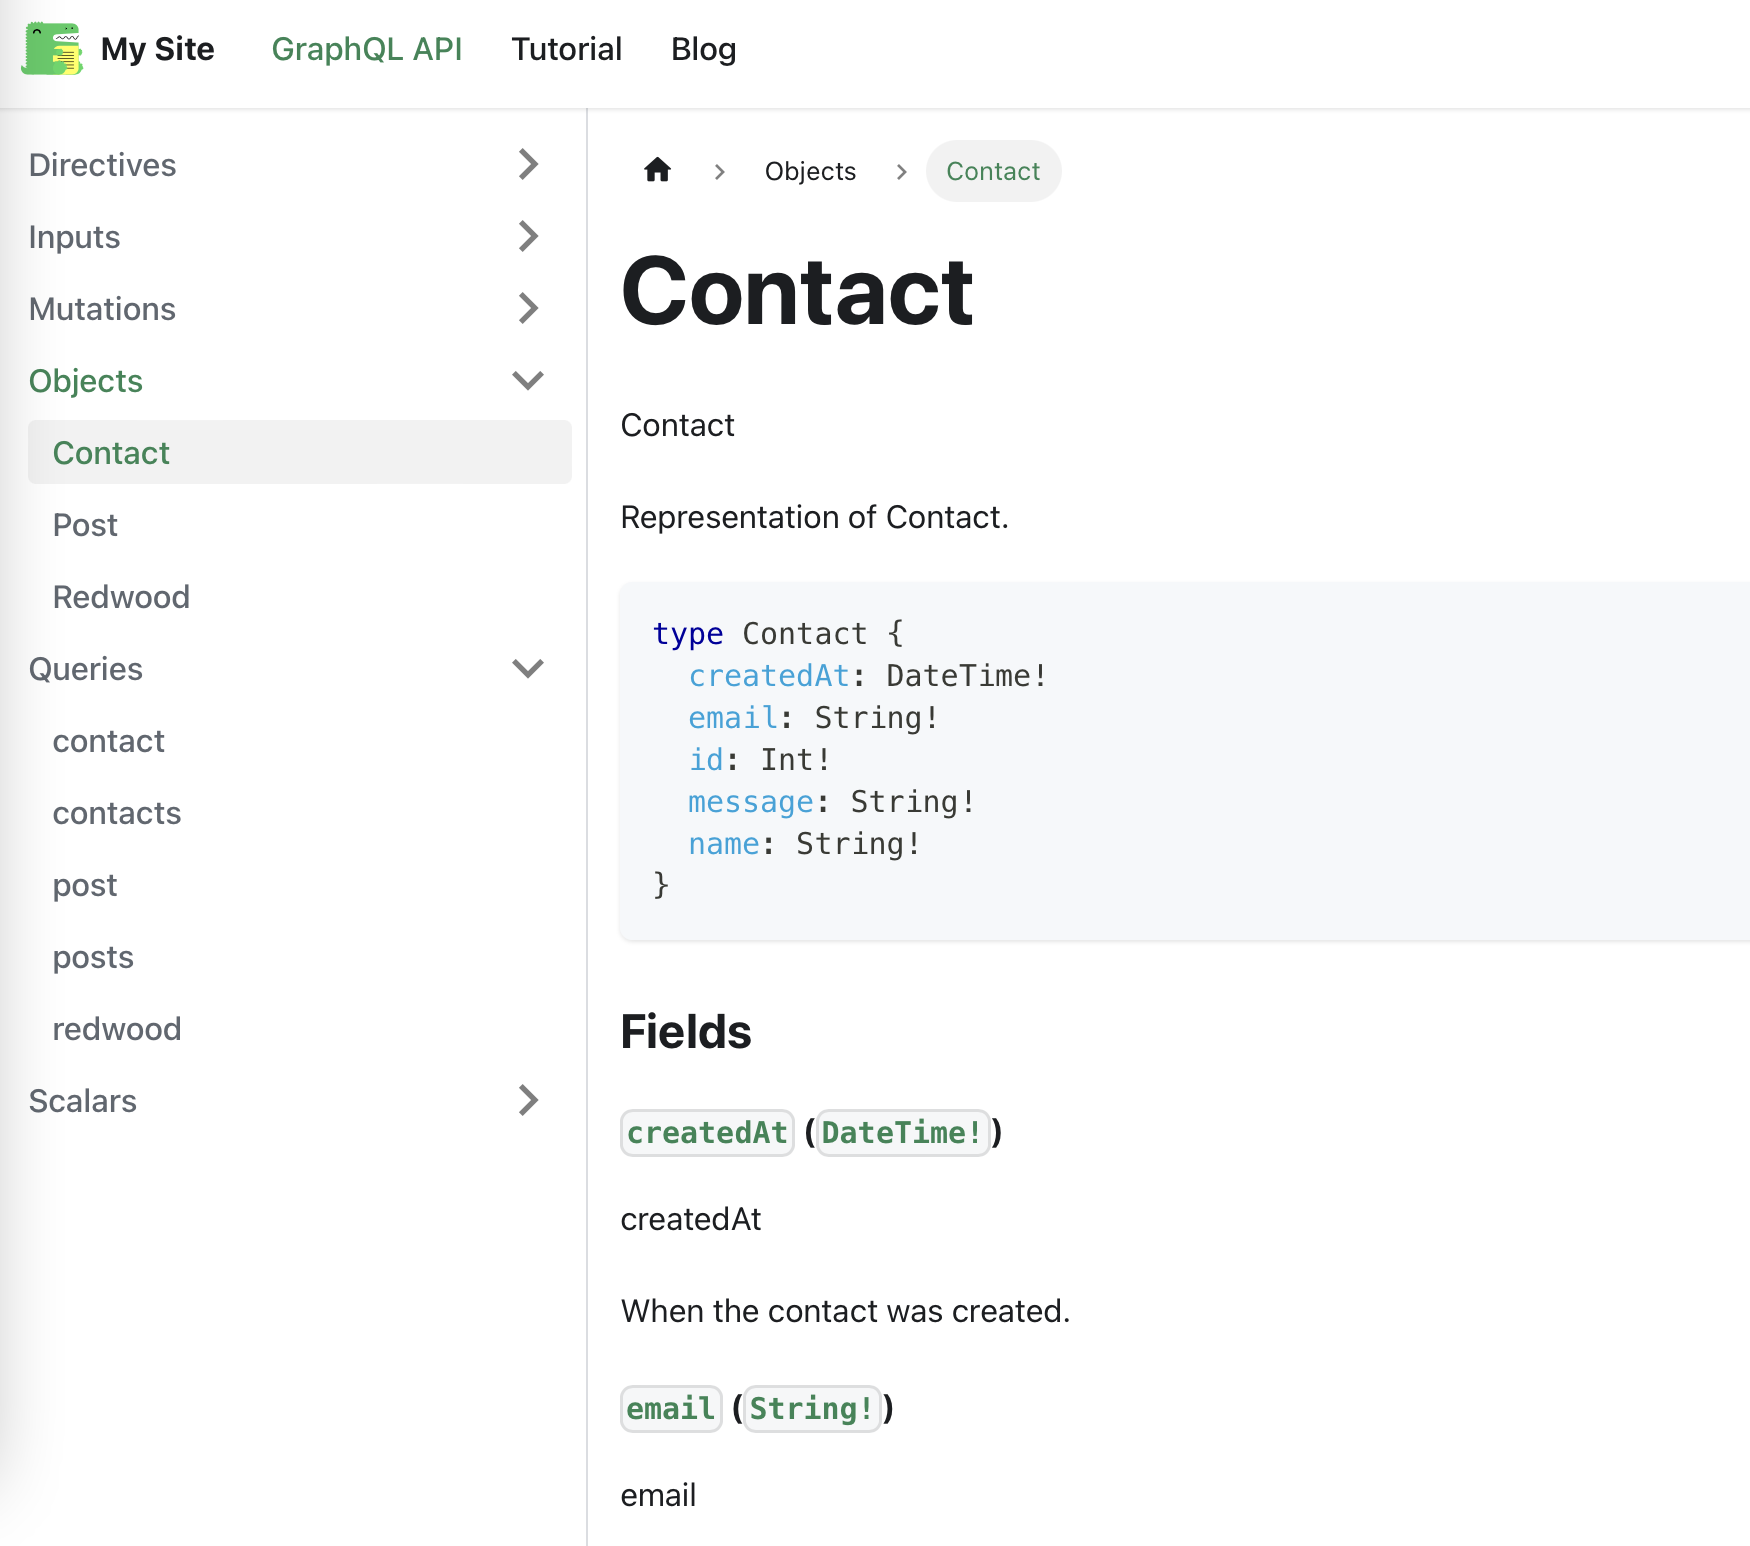
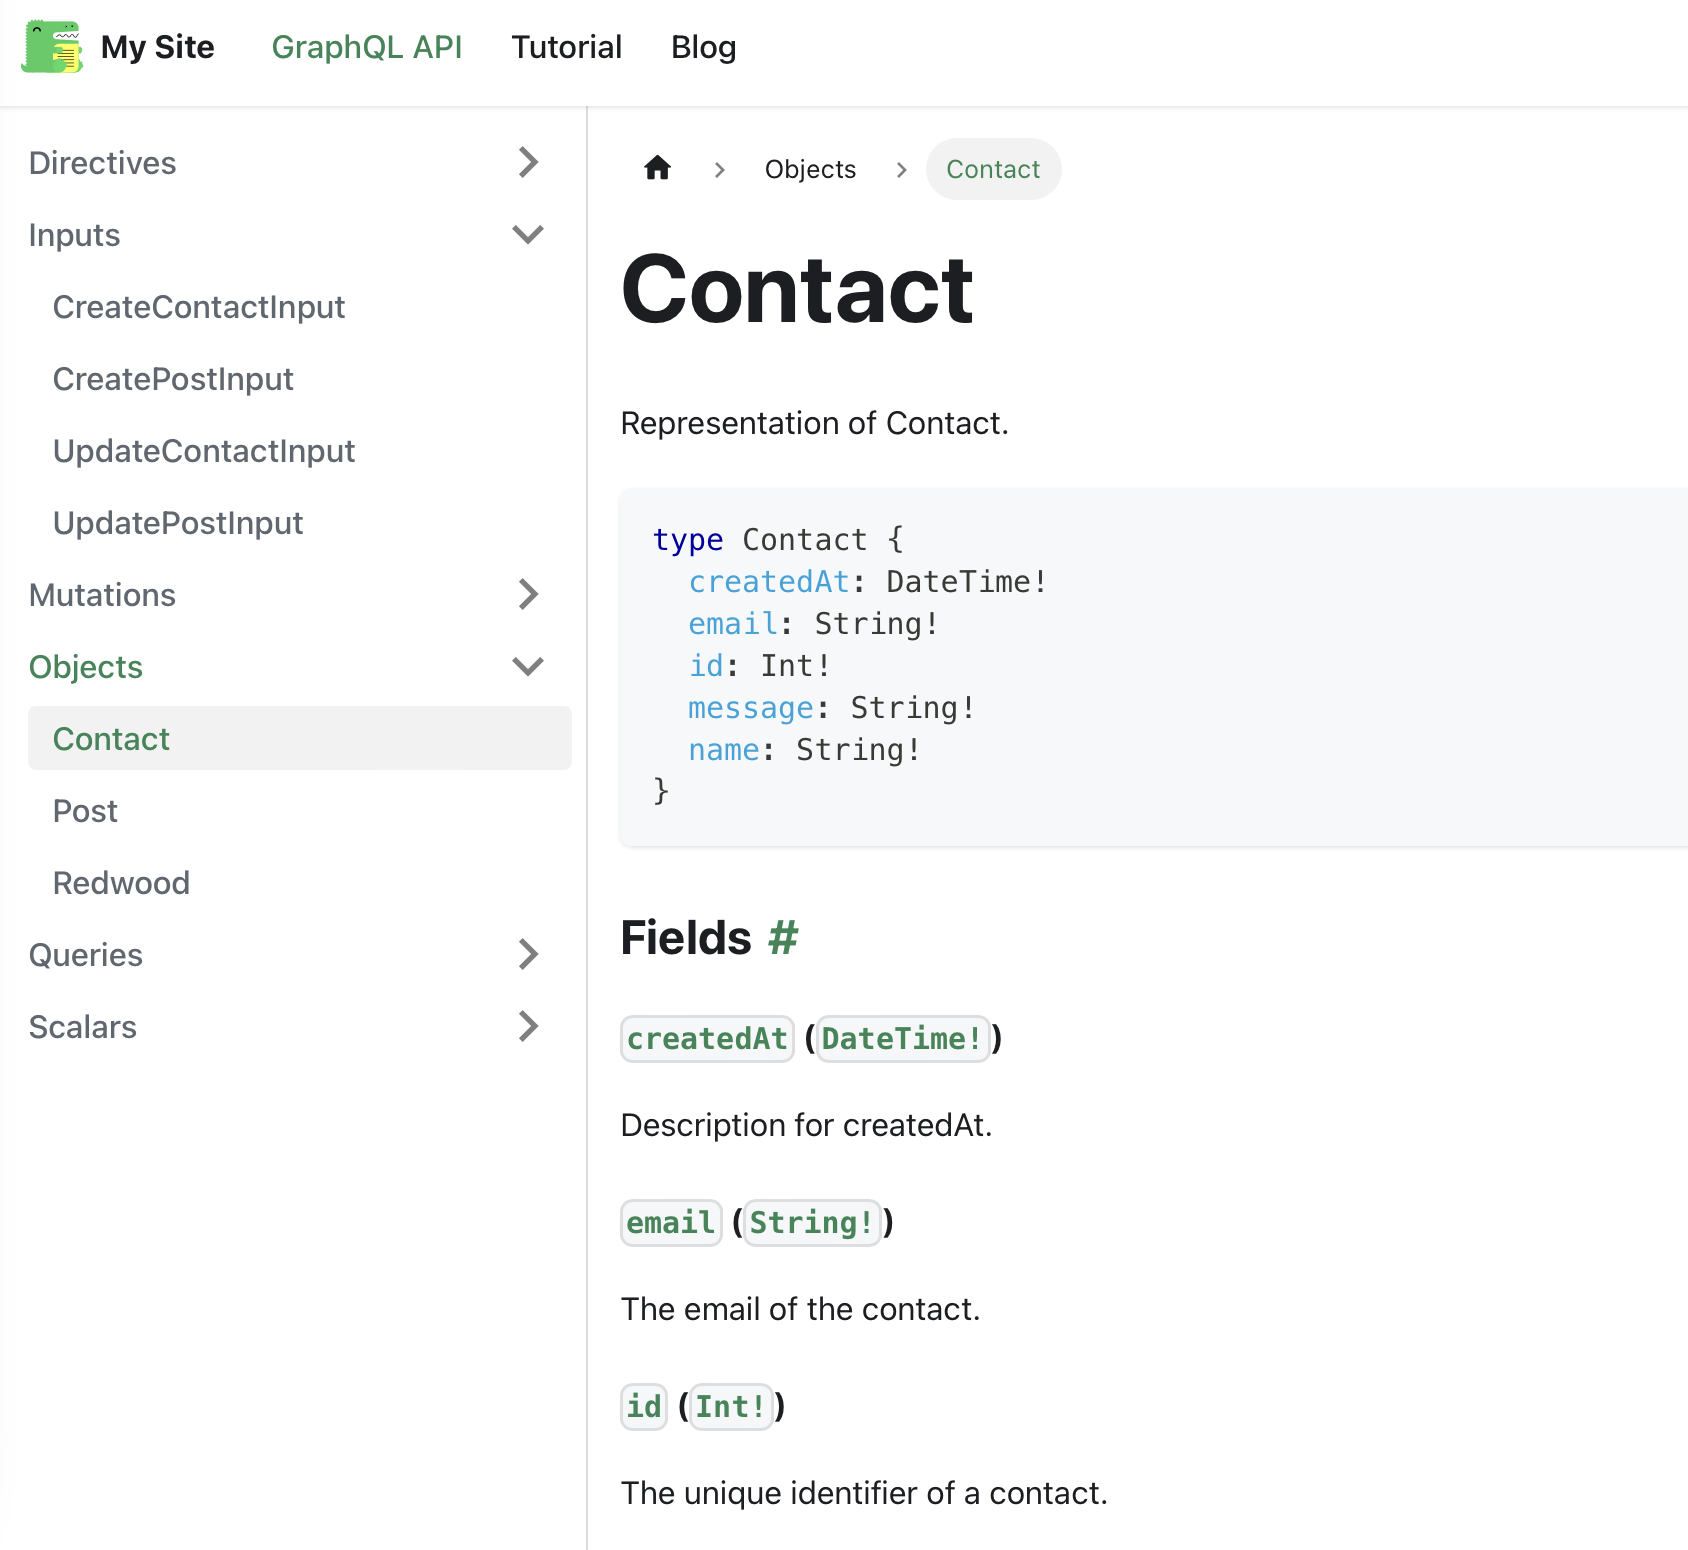
Redo images

diff --git a/packages/graphql-server/src/rootSchema.ts b/packages/graphql-server/src/rootSchema.ts
@@ -33,26 +33,20 @@ export const schema = gql`
   scalar JSONObject
 
   """
-  The Redwood Root Schema
+  The RedwoodJS Root Schema
 
-  Defines details about Redwood such as the current user and version information.
+  Defines details about RedwoodJS such as the current user and version information.
   """
   type Redwood {
     """
-    version
-
     The version of Redwood.
     """
     version: String
     """
-    currentUser
-
     The current user.
     """
     currentUser: JSON
     """
-    prismaVersion
-
     The version of Prisma.
     """
     prismaVersion: String
@@ -63,8 +57,6 @@ export const schema = gql`
   """
   type Query {
     """
-    redwood
-
     Fetches the Redwood root schema.
     """
     redwood: Redwood

diff --git a/docs/docs/graphql.md b/docs/docs/graphql.md
@@ -1154,42 +1154,30 @@ directive @requireAuth(roles: [String]) on FIELD_DEFINITION
 directive @skipAuth on FIELD_DEFINITION
 
 """
-Contact
-
 Representation of Contact.
 """
 type Contact {
   """
-  createdAt
-
   When the contact was created.
   """
   createdAt: DateTime!
 
   """
-  email
-
   The email of the contact.
   """
   email: String!
 
   """
-  id
-
   The unique identifier of a contact.
   """
   id: Int!
 
   """
-  message
-
   The message of the contact.
   """
   message: String!
 
   """
-  name
-
   The name of the contact.
   """
   name: String!
@@ -1198,22 +1186,16 @@ type Contact {
 """Autogenerated input type of InputContact."""
 input CreateContactInput {
   """
-  email
-
   The email of the contact.
   """
   email: String!
 
   """
-  message
-
   The message of the contact.
   """
   message: String!
 
   """
-  name
-
   The name of the contact.
   """
   name: String!
@@ -1222,15 +1204,11 @@ input CreateContactInput {
 """Autogenerated input type of InputPost."""
 input CreatePostInput {
   """
-  body
-
   The content of a post.
   """
   body: String!
 
   """
-  title
-
   The title of a post.
   """
   title: String!
@@ -1264,29 +1242,21 @@ A blog post.
 """
 type Post {
   """
-  body
-
   The content of a post.
   """
   body: String!
 
   """
-  createdAt
-
   When the post was created.
   """
   createdAt: DateTime!
 
   """
-  id
-
   The unique identifier of a post.
   """
   id: Int!
 
   """
-  title
-
   The title of a post.
   """
   title: String!
@@ -1310,22 +1280,16 @@ type Query {
 """Autogenerated input type of UpdateContact."""
 input UpdateContactInput {
   """
-  email
-
   The email of the contact.
   """
   email: String
 
   """
-  message
-
   The message of the contact.
   """
   message: String
 
   """
-  name
-
   The name of the contact.
   """
   name: String
@@ -1334,15 +1298,11 @@ input UpdateContactInput {
 """Autogenerated input type of UpdatePost."""
 input UpdatePostInput {
   """
-  body
-
   The content of a post.
   """
   body: String
 
   """
-  title
-
   The title of a post.
   """
   title: String
@@ -1355,8 +1315,6 @@ Documentation is also generated for thr Redwood Root Schema that defines details
 ```
 type Query {
   """
-  redwood
-
   Fetches the Redwood root schema.
   """
   redwood: Redwood
@@ -1369,22 +1327,16 @@ Defines details about Redwood such as the current user and version information.
 """
 type Redwood {
   """
-  currentUser
-
   The current user.
   """
   currentUser: JSON
 
   """
-  prismaVersion
-
   The version of Prisma.
   """
   prismaVersion: String
 
   """
-  version
-
   The version of Redwood.
   """
   version: String
@@ -1406,15 +1358,15 @@ The [GraphQL Playground aka GraphiQL](https://www.graphql-yoga.com/docs/features
 The documentation generated is present when exploring the schema.
 
 #### Queries
-![graphql-doc-queries](https://user-images.githubusercontent.com/1051633/175786071-b80e9220-c8a9-4a45-94c6-c53faa1c77b1.png)
+![graphiql-queries](/img/graphql-api-docs/graphiql-queries.png)
 
-
+#### Mutations
+![graphiql-mutations](/img/graphql-api-docs/graphiql-mutations.png)
 #### Model Types
-![graphql-doc-type](https://user-images.githubusercontent.com/1051633/175786097-0291a7e1-c405-4233-b6d3-e40212633987.png)
+![graphiql-type](/img/graphql-api-docs/graphiql-type.png)
 
 #### Input Types
-![graphql-doc-mutation-input](https://user-images.githubusercontent.com/1051633/175786119-f569a73f-e6c0-4c91-b4d9-c960c27b0036.png)
-
+![graphiql-input-type](/img/graphql-api-docs/graphiql-input-type.png)
 
 ### Use in Docusaurus
 
